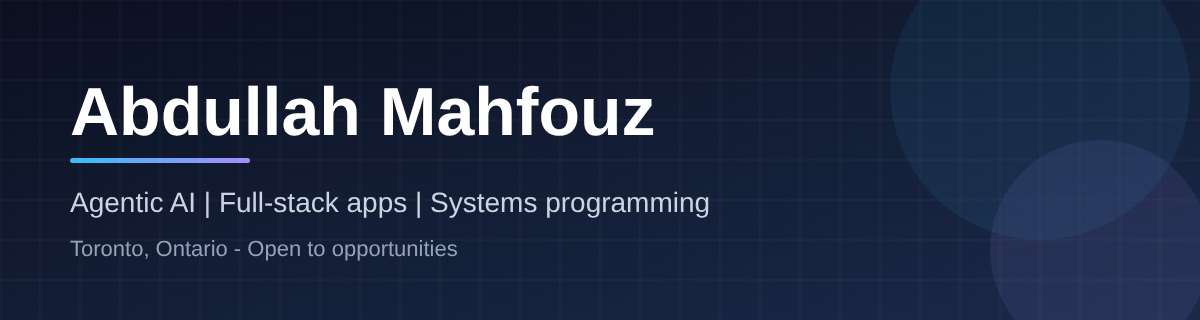
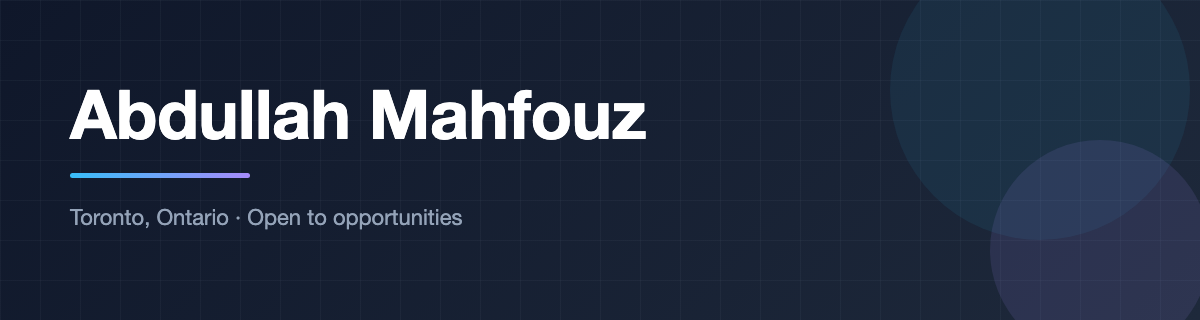
Use real project screenshots, hide stats rank, drop tagline and open source section

diff --git a/README.md b/README.md
@@ -1,6 +1,6 @@
 <div align="center">
 
-<img src="assets/banner.png" alt="Abdullah Mahfouz - Agentic AI, full-stack apps, systems programming" width="100%">
+<img src="assets/banner.png" alt="Abdullah Mahfouz" width="100%">
 
 <br>
 
@@ -8,7 +8,7 @@
 [![Portfolio](https://img.shields.io/badge/Portfolio-0F172A?style=for-the-badge&logo=githubpages&logoColor=white)](https://abdullahmahfouz.github.io)
 [![Email](https://img.shields.io/badge/Email-D14836?style=for-the-badge&logo=gmail&logoColor=white)](mailto:abdullahmahfouz@trentu.ca)
 
-[**Featured projects**](#featured-projects) &nbsp;|&nbsp; [**Systems**](#systems-programming) &nbsp;|&nbsp; [**Open source**](#open-source-and-client-work) &nbsp;|&nbsp; [**Stack**](#tech-stack) &nbsp;|&nbsp; [**Contact**](#contact)
+[**Featured projects**](#featured-projects) &nbsp;|&nbsp; [**Systems**](#systems-programming) &nbsp;|&nbsp; [**Client work**](#client-work) &nbsp;|&nbsp; [**Stack**](#tech-stack) &nbsp;|&nbsp; [**Contact**](#contact)
 
 </div>
 
@@ -21,7 +21,7 @@ Computer Science graduate from Trent University, based in Peterborough and Toron
 | | |
 |---|---|
 | **Strong at** | Agentic AI (tool calling), full-stack apps, systems programming |
-| **Shipped** | 3 live deployed apps, a merged open-source security fix, a 100/100 Lighthouse client site |
+| **Shipped** | 3 live deployed apps, a 100/100 Lighthouse client site |
 | **Daily drivers** | Python, JavaScript/React, Java/Spring Boot, C#, C |
 
 ---
@@ -49,7 +49,7 @@ Real-time ingestion and driver-safety analytics for a vehicle fleet, from raw ac
 
 ### NeoWatch: near-Earth object tracker
 
-[<img src="https://image.thum.io/get/width/1200/crop/750/noanimate/https://main.d2m0an0vcg1iwk.amplifyapp.com/" alt="NeoWatch live dashboard" width="100%">](https://main.d2m0an0vcg1iwk.amplifyapp.com/)
+[<img src="assets/shot-neowatch.png" alt="NeoWatch live dashboard" width="100%">](https://main.d2m0an0vcg1iwk.amplifyapp.com/)
 
 ![Java](https://img.shields.io/badge/Java-ED8B00?style=flat-square&logo=openjdk&logoColor=white)
 ![Spring Boot](https://img.shields.io/badge/Spring_Boot-6DB33F?style=flat-square&logo=springboot&logoColor=white)
@@ -66,7 +66,7 @@ Live 3D dashboard of near-Earth objects from NASA's public feed, with impact-ene
 
 ### HomeAgent: agentic real estate assistant
 
-[<img src="https://image.thum.io/get/width/1200/crop/750/noanimate/https://homeagent-deuf.onrender.com/" alt="HomeAgent live app" width="100%">](https://homeagent-deuf.onrender.com/)
+[<img src="assets/shot-homeagent.png" alt="HomeAgent live app" width="100%">](https://homeagent-deuf.onrender.com/)
 
 ![Python](https://img.shields.io/badge/Python-3776AB?style=flat-square&logo=python&logoColor=white)
 ![FastAPI](https://img.shields.io/badge/FastAPI-009688?style=flat-square&logo=fastapi&logoColor=white)
@@ -80,7 +80,7 @@ Ask for properties in plain English across 8 US states; the agent searches listi
 
 ### DSA Visualizer: interactive data-structures platform
 
-[<img src="https://image.thum.io/get/width/1200/crop/750/noanimate/https://dsa-visualizer-ksnl.onrender.com/" alt="DSA Visualizer live app" width="100%">](https://dsa-visualizer-ksnl.onrender.com/)
+[<img src="assets/shot-dsa.png" alt="DSA Visualizer live app" width="100%">](https://dsa-visualizer-ksnl.onrender.com/)
 
 ![React](https://img.shields.io/badge/React-20232A?style=flat-square&logo=react&logoColor=61DAFB)
 ![Flask](https://img.shields.io/badge/Flask-000000?style=flat-square&logo=flask&logoColor=white)
@@ -121,9 +121,8 @@ Unix-style shell in C# with pipes, redirection, 10+ builtins, a hand-rolled toke
 
 ---
 
-## Open source and client work
+## Client work
 
-- **[rysweet/amplihack](https://github.com/rysweet/amplihack)**: authored a merged security PR fixing a shell injection vulnerability
 - **Brendon Rodney**: portfolio site for the Paris 2024 Olympic gold medalist (4x100m relay). Zero-dependency static site, 100/100 Lighthouse, $0/month hosting.
 
 ---
@@ -163,7 +162,7 @@ Unix-style shell in C# with pipes, redirection, 10+ builtins, a hand-rolled toke
 
 <div align="center">
 
-![Stats](https://github-readme-stats.vercel.app/api?username=abdullahmahfouz&show_icons=true&theme=tokyonight&hide_border=true&count_private=true)
+![Stats](https://github-readme-stats.vercel.app/api?username=abdullahmahfouz&show_icons=true&theme=tokyonight&hide_border=true&count_private=true&hide_rank=true)
 ![Top languages](https://github-readme-stats.vercel.app/api/top-langs/?username=abdullahmahfouz&layout=compact&theme=tokyonight&hide_border=true)
 
 </div>
